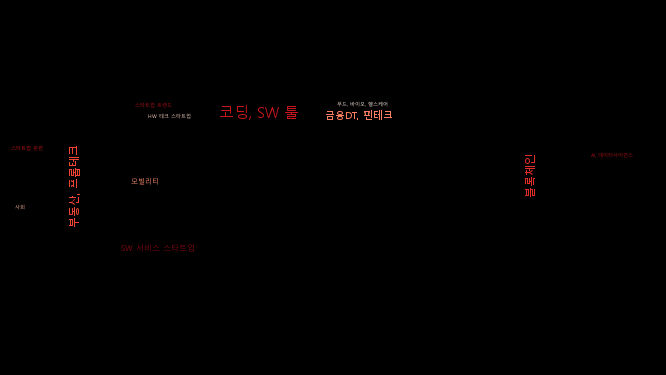
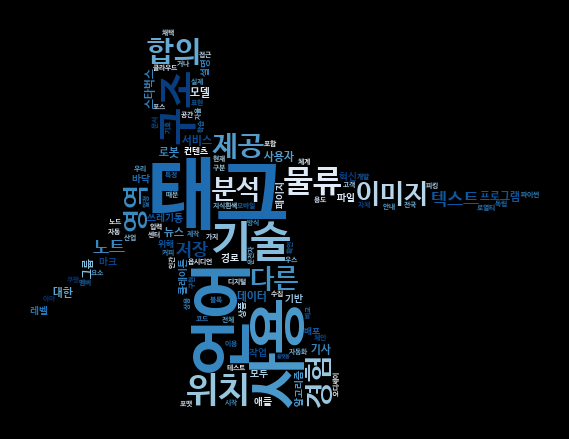
v221219.03

diff --git a/index.html b/index.html
@@ -129,16 +129,16 @@ id -> .firstname
           </table>
         </div>
         <div id="bottom">
-          <img src="wordcloud2.png" id="center_img">
+          <img src="wordcloud1.png" id="center_img">
           <p style="text-align: center;">
             <span style="color: red; font-size: 20px">WordCloud1</span><br>
             "LINER의 하이라이트를 크롤링하여 <strong style="color:yellow">누적 관심 분야</strong>를 보여줍니다!"
           </p>
         </div>
         <div>
-          <img src="wordcloud.png" style="width:100%">
+          <img src="wordcloud2.png" style="width:100%">
           <p style="text-align: center;">
-            <span style="color: #00D26A; font-size: 20px">WordCloud2</span><br>
+            <span style="color: rgb(107, 107, 234); font-size: 20px">WordCloud2</span><br>
             "LINER의 하이라이트를 크롤링하여 <strong style="color:yellow">최근 관심 키워드</strong>를 보여줍니다!"
           </p>
         </div>

diff --git a/cloudmaker2.py b/cloudmaker2.py
@@ -23,25 +23,45 @@ time.sleep(1)
 
 html = driver.page_source
 soup = BeautifulSoup(html, 'html.parser')
-sec = soup.select_one('section.css-14vqkrf')
-tags = sec.select('ul.css-oediup > ul > li')
+sec = soup.select_one('section.css-0')
+titles = sec.select('div.css-w3af2n > h2.css-o7qmg8')
+contents = sec.select('div.css-w3af2n > section > section > div > section > div > div > div > p')
 
-import re
-
-collections = {}
-for tag in tags:
-    attr = tag['data-folder-data'] # type = str
-    # attr = attr.rstrip # 우공백 지우기 -> 하면 다 지워짐
-    # type(attr) = str
-    # 결과 예시
-    # {"id":7382319,"name":"헬스케어 스타트업","emoji":null,"order":13,"status":"normal","description":"","openState":"public","hashKey":"NzM4MjMxOQ==","savedPageCount":1,"viewCount":0}
-    # => 정규표현식으로 해결해보자!
-    name = re.findall('"name":"(.*?)",', attr)[0]
-    page = re.findall('"savedPageCount":(.*?),', attr)[0]
-    page = int(page)
-    collections[name] = page
-    
 time.sleep(1)
+
+list=[]
+
+from konlpy.tag import Okt
+
+okt=Okt()
+
+for title in titles:
+    line1 = title.get_text()
+    words = okt.nouns(line1)
+    words2 = [n for n in words if len(n) > 1]
+    list.extend(words2)
+
+for content in contents:
+    line2 = content.get_text()
+    words = okt.nouns(line2)
+    words2 = [n for n in words if len(n) > 1]
+    list.extend(words2)
+
+# 텍스트 임의 제거
+'''
+remove_list=['수','것']
+for nope in remove_list:
+    while nope in nouns:
+        nouns.remove(nope)
+'''
+
+# 텍스트 임의 변경
+translate_list = [['크롤', '크롤링'], ['롤링', '크롤링'], ['테이블', '스테이블'],['설제','제설제']]
+for old, new in translate_list:
+    while old in list:
+        list.remove(old)
+        list.append(new)
+
 
 from wordcloud import WordCloud
 import matplotlib.pyplot as plt
@@ -52,14 +72,14 @@ font = "NanumBarunGothicBold"
 font_path = "%s.ttf" % font
 
 # https://noanswercode.tistory.com/8 참고
-icon = Image.open('image-removebg-preview.png') # 이미지 파일 읽어오기
+icon = Image.open('mask_img\Son.png') # 이미지 파일 읽어오기
 mask = Image.new("RGB", icon.size, (255,255,255))
 mask.paste(icon,icon)
 mask = np.array(mask) # 픽셀 값 배열 형태 변환
 
-word_counts = collections
+word_counts = Counter(list)
   
-wordcloud = WordCloud(font_path='malgun',  background_color="black", colormap='Reds', width = 500, height = 500, random_state = 43, max_font_size=80, mask=mask).generate_from_frequencies(word_counts)
+wordcloud = WordCloud(font_path=font_path,  background_color="black", colormap='Blues', random_state = 43, max_font_size=150, min_font_size=5, max_words=5000, mask=mask).generate_from_frequencies(word_counts)
 
 plt.figure(figsize = (6,6))
 plt.imshow(wordcloud, interpolation="bilinear")

diff --git a/cloudmaker1.py b/cloudmaker1.py
@@ -1,0 +1,79 @@
+from selenium import webdriver
+from selenium.webdriver.common.by import By
+from selenium.webdriver.chrome.service import Service as ChromeService
+import time
+from bs4 import BeautifulSoup
+from collections import Counter
+
+options = webdriver.ChromeOptions()
+options.add_experimental_option("excludeSwitches", ["enable-automation"])
+options.add_experimental_option("useAutomationExtension", False)
+CHROMEDRIVER_PATH = './chromedriver.exe'
+service = ChromeService(executable_path=CHROMEDRIVER_PATH)
+
+driver = webdriver.Chrome(service=service, options=options)
+
+delay=0.1
+
+url = 'https://getliner.com/feeds/user/7203684?shareOption=profile'
+
+driver.get(url)
+
+time.sleep(1)
+
+html = driver.page_source
+soup = BeautifulSoup(html, 'html.parser')
+sec = soup.select_one('section.css-14vqkrf')
+tags = sec.select('ul.css-oediup > ul > li')
+
+import re
+
+collections = {}
+for tag in tags:
+    attr = tag['data-folder-data'] # type = str
+    # attr = attr.rstrip # 우공백 지우기 -> 하면 다 지워짐
+    # type(attr) = str
+    # 결과 예시
+    # {"id":7382319,"name":"헬스케어 스타트업","emoji":null,"order":13,"status":"normal","description":"","openState":"public","hashKey":"NzM4MjMxOQ==","savedPageCount":1,"viewCount":0}
+    # => 정규표현식으로 해결해보자!
+    name = re.findall('"name":"(.*?)",', attr)[0]
+    page = re.findall('"savedPageCount":(.*?),', attr)[0]
+    page = int(page)
+    split_str = ', '
+    if split_str in name:
+        split_list = name.split(', ')
+        for n in split_list:
+            name = n
+            collections[name] = page
+    else:
+        collections[name] = page
+    
+time.sleep(1)
+
+from wordcloud import WordCloud
+import matplotlib.pyplot as plt
+from PIL import Image
+import numpy as np
+
+font = "NanumBarunGothicBold"
+font_path = "%s.ttf" % font
+
+# https://noanswercode.tistory.com/8 참고
+icon = Image.open('mask_img\Apple_logo.png') # 이미지 파일 읽어오기
+mask = Image.new("RGB", icon.size, (255,255,255))
+mask.paste(icon,icon)
+mask = np.array(mask) # 픽셀 값 배열 형태 변환
+
+word_counts = collections
+  
+wordcloud = WordCloud(font_path='malgun',  background_color="black", colormap='Reds', width = 500, height = 500, random_state = 43, max_font_size=80, mask=mask).generate_from_frequencies(word_counts)
+
+plt.figure(figsize = (6,6))
+plt.imshow(wordcloud, interpolation="bilinear")
+plt.axis("off")
+# 2초 후 자동으로 닫게 하기
+plt.show(block=False)
+plt.pause(3) 
+plt.close()
+
+wordcloud.to_file('wordcloud1.png')
